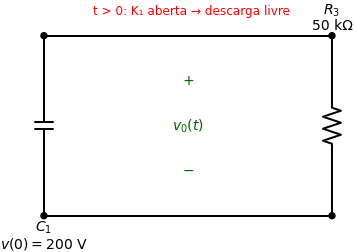
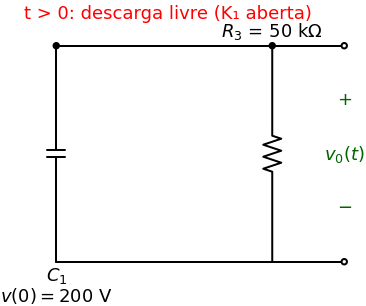
Aumenta escala dos circuitos Q2 (unit=6) e corrige posicao das legendas ao lado dos componentes

diff --git a/CIRCUITOS ELETRICOS/code/draw_prova2_q2.py b/CIRCUITOS ELETRICOS/code/draw_prova2_q2.py
@@ -9,136 +9,137 @@ os.makedirs(img_dir, exist_ok=True)
 # CIRCUITO ORIGINAL (como aparece na prova)
 # ============================================================
 with schemdraw.Drawing(file=os.path.join(img_dir, "prova2_q2_original.png"), show=False) as d:
-    d.config(unit=4.0, fontsize=14)
+    d.config(unit=6.0, fontsize=18)
 
-    H = 6
+    # Fonte de corrente (esquerdo, vertical, de baixo para cima)
+    d += elm.SourceI().up().at((0,0)).reverse().label('7,5 mA', loc='left')
+    top_left = d.here
 
-    # Fio inferior
-    d += elm.Line().right().at((0,0)).length(14)
+    # Fio superior ate R1
+    d += elm.Line().right().at(top_left).length(2)
+    node_A = d.here
+    d += elm.Dot()
 
-    # Fonte de corrente (esquerdo, vertical)
-    d += elm.SourceI().up().at((0,0)).length(H).label('$I_1$\n7,5 mA', loc='left').reverse()
-    d += elm.Dot().at((0, H))
-    d += elm.Dot().at((0, 0))
+    # R1 (vertical, desce)
+    d += elm.Resistor().down().at(node_A).label('$R_1$ = 80 kΩ', loc='right')
+    r1_bot = d.here
 
-    # R1 (vertical, paralelo com fonte)
-    d += elm.Line().right().at((0, H)).length(2)
-    r1_top = d.here
-    d += elm.Resistor().down().at(r1_top).length(H).label('$R_1$\n80 kΩ', loc='right')
-    d += elm.Line().left().at(r1_top).length(2)
-    d += elm.Line().left().at((r1_top[0], 0)).tox(0)
-
-    # Fio superior saindo de R1 para R2
-    d += elm.Line().right().at(r1_top).length(1)
-    r2_start = d.here
-    d += elm.Dot().at(r2_start)
-
-    # R2 (horizontal)
-    d += elm.Resistor().right().at(r2_start).length(4).label('$R_2$\n20 kΩ', loc='top')
-    k1_left = d.here
+    # R2 (horizontal, para a direita)
+    d += elm.Resistor().right().at(node_A).label('$R_2$ = 20 kΩ', loc='top')
+    r2_end = d.here
 
     # K1 (switch)
-    d += elm.Switch().right().at(k1_left).length(2).label('$K_1$', loc='top')
-    k1_right = d.here
-    d += elm.Dot().at(k1_right)
+    d += elm.Switch().right().at(r2_end).label('$K_1$', loc='top')
+    node_B = d.here
+    d += elm.Dot()
 
-    # C1 (vertical)
-    d += elm.Capacitor().down().at(k1_right).length(H).label('$C_1$\n0,4 μF', loc='left')
-    d += elm.Dot().at(k1_right)
+    # C1 (vertical, desce)
+    d += elm.Capacitor().down().at(node_B).label('$C_1$ = 0,4 μF', loc='right')
+    c1_bot = d.here
 
     # R3 (vertical, paralelo com C1)
-    d += elm.Line().right().at(k1_right).length(4)
+    d += elm.Line().right().at(node_B).length(3)
     r3_top = d.here
-    d += elm.Dot().at(r3_top)
-    d += elm.Resistor().down().at(r3_top).length(H).label('$R_3$\n50 kΩ', loc='right')
+    d += elm.Dot()
+    d += elm.Resistor().down().at(r3_top).label('$R_3$ = 50 kΩ', loc='right')
+    r3_bot = d.here
 
-    # v label
-    d += elm.Gap().down().at((k1_right[0]+1.5, H)).length(H).label(['+', '$v$', '−'])
+    # Tensao v
+    d += elm.Line().right().at(r3_top).length(2)
+    vt = d.here
+    d += elm.Dot(open=True)
+    d += elm.Line().right().at(r3_bot).length(2)
+    vb = d.here
+    d += elm.Dot(open=True)
+    d += elm.Gap().down().at(vt).toy(vb).label(['+', '$v$', '−'])
+
+    # Fio inferior (conecta tudo embaixo)
+    d += elm.Line().left().at(r3_bot).tox(r1_bot)
+    d += elm.Line().left().at(r1_bot).tox(0)
+    d += elm.Line().left().at(c1_bot).tox(r1_bot)
 
 print("OK: prova2_q2_original.png")
 
 # ============================================================
-# CIRCUITO t < 0: K1 FECHADA (regime CC permanente)
-# Capacitor = circuito aberto
+# CIRCUITO t < 0: K1 FECHADA, Capacitor = ABERTO
 # ============================================================
 with schemdraw.Drawing(file=os.path.join(img_dir, "prova2_q2_t_menor_0.png"), show=False) as d:
-    d.config(unit=4.0, fontsize=14)
-
-    H = 6
-
-    # Fio inferior
-    d += elm.Line().right().at((0,0)).length(14)
+    d.config(unit=6.0, fontsize=18)
 
     # Fonte de corrente
-    d += elm.SourceI().up().at((0,0)).length(H).label('$I_1$\n7,5 mA', loc='left').reverse()
-    d += elm.Dot().at((0, H))
-    d += elm.Dot().at((0, 0))
+    d += elm.SourceI().up().at((0,0)).reverse().label('7,5 mA', loc='left')
+    top_left = d.here
 
-    # R1
-    d += elm.Line().right().at((0, H)).length(2)
-    r1_top = d.here
-    d += elm.Resistor().down().at(r1_top).length(H).label('$R_1$\n80 kΩ', loc='right')
-    d += elm.Line().left().at((r1_top[0], 0)).tox(0)
+    # Fio superior ate nó A
+    d += elm.Line().right().at(top_left).length(2)
+    node_A = d.here
+    d += elm.Dot()
+    d += elm.Label().at((node_A[0], node_A[1]+0.6)).label('Nó A', color='blue')
 
-    # Fio superior
-    d += elm.Line().right().at(r1_top).length(1)
-    r2_start = d.here
-    d += elm.Dot().at(r2_start)
-    d += elm.Label().at((r2_start[0], H+0.5)).label('Nó A', color='blue', fontsize=12)
+    # R1 (desce)
+    d += elm.Resistor().down().at(node_A).label('$R_1$ = 80 kΩ', loc='right')
+    r1_bot = d.here
 
-    # R2
-    d += elm.Resistor().right().at(r2_start).length(4).label('$R_2$\n20 kΩ', loc='top')
-    k1_left = d.here
+    # R2 (horizontal)
+    d += elm.Resistor().right().at(node_A).label('$R_2$ = 20 kΩ', loc='top')
+    r2_end = d.here
 
-    # K1 fechada = fio
-    d += elm.Line().right().at(k1_left).length(2).color('blue')
-    k1_right = d.here
-    d += elm.Dot().at(k1_right)
-    d += elm.Label().at((k1_right[0], H+0.5)).label('Nó B', color='blue', fontsize=12)
-    d += elm.Label().at(((k1_left[0]+k1_right[0])/2, H+1.0)).label('K₁ fechada (fio)', color='blue', fontsize=11)
+    # K1 fechada = fio azul
+    d += elm.Line().right().at(r2_end).length(3).color('blue')
+    node_B = d.here
+    d += elm.Dot()
+    d += elm.Label().at((node_B[0], node_B[1]+0.6)).label('Nó B', color='blue')
+    d += elm.Label().at(((r2_end[0]+node_B[0])/2, r2_end[1]+1.2)).label('K₁ fechada', color='blue')
 
-    # C1 = ABERTO (sem elemento, só gap)
-    d += elm.Gap().down().at(k1_right).length(H).label(['', 'C aberto', ''], color='red')
+    # C1 = ABERTO (gap vermelho)
+    d += elm.Gap().down().at(node_B).label(['', 'C₁ aberto', ''], color='red')
+    c1_bot = d.here
 
-    # R3
-    d += elm.Line().right().at(k1_right).length(4)
+    # R3 (paralelo)
+    d += elm.Line().right().at(node_B).length(3)
     r3_top = d.here
-    d += elm.Dot().at(r3_top)
-    d += elm.Resistor().down().at(r3_top).length(H).label('$R_3$\n50 kΩ', loc='right')
+    d += elm.Dot()
+    d += elm.Resistor().down().at(r3_top).label('$R_3$ = 50 kΩ', loc='right')
+    r3_bot = d.here
 
-    # v no nó B
-    d += elm.Label().at((k1_right[0]+1.3, H/2)).label('+\n$v(0^-)$\n−', color='darkgreen', fontsize=13)
+    # Fio inferior
+    d += elm.Line().left().at(r3_bot).tox(c1_bot)
+    d += elm.Line().left().at(c1_bot).tox(r1_bot)
+    d += elm.Line().left().at(r1_bot).tox(0)
 
 print("OK: prova2_q2_t_menor_0.png")
 
 # ============================================================
-# CIRCUITO t > 0: K1 ABERTA (descarga RC)
+# CIRCUITO t > 0: K1 ABERTA → C1 descarrega em R3
 # ============================================================
 with schemdraw.Drawing(file=os.path.join(img_dir, "prova2_q2_t_maior_0.png"), show=False) as d:
-    d.config(unit=4.0, fontsize=14)
+    d.config(unit=6.0, fontsize=18)
 
-    H = 5
-
-    # Fio inferior
-    d += elm.Line().right().at((0,0)).length(8)
-
-    # C1 (esquerda)
-    d += elm.Capacitor().up().at((0,0)).length(H).label('$C_1$\n$v(0) = 200$ V', loc='left')
-    d += elm.Dot().at((0,H))
-    d += elm.Dot().at((0,0))
+    # Capacitor (esquerda, sobe)
+    d += elm.Capacitor().up().at((0,0)).label('$C_1$\n$v(0) = 200$ V', loc='left')
+    top_left = d.here
+    d += elm.Dot()
 
     # Fio superior
-    d += elm.Line().right().at((0,H)).length(8)
+    d += elm.Line().right().at(top_left).length(6)
+    top_right = d.here
+    d += elm.Dot()
 
-    # R3 (direita)
-    d += elm.Resistor().down().at((8,H)).length(H).label('$R_3$\n50 kΩ', loc='right')
-    d += elm.Dot().at((8,H))
-    d += elm.Dot().at((8,0))
+    # R3 (direita, desce)
+    d += elm.Resistor().down().at(top_right).label('$R_3$ = 50 kΩ', loc='right')
+    bot_right = d.here
 
-    # v_o
-    d += elm.Gap().down().at((4, H)).length(H).label(['+', '$v_0(t)$', '−'], color='darkgreen')
+    # Fio inferior
+    d += elm.Line().left().at(bot_right).tox(0)
+
+    # Label v_o
+    d += elm.Gap().down().at((top_right[0]+2, top_left[1])).toy(0).label(['+', '$v_0(t)$', '−'], color='darkgreen')
+    d += elm.Dot(open=True).at((top_right[0]+2, top_left[1]))
+    d += elm.Line().right().at(top_right).length(2)
+    d += elm.Dot(open=True).at((top_right[0]+2, 0))
+    d += elm.Line().right().at(bot_right).length(2)
 
     # Titulo
-    d += elm.Label().at((4, H+0.8)).label('t > 0: K₁ aberta → descarga livre', color='red', fontsize=12)
+    d += elm.Label().at((3, top_left[1]+0.8)).label('t > 0: descarga livre (K₁ aberta)', color='red')
 
 print("OK: prova2_q2_t_maior_0.png")